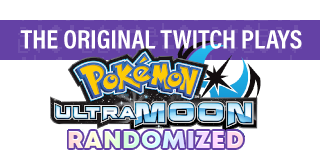
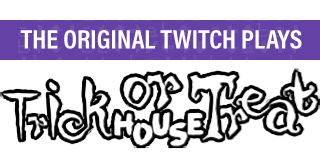
TTH Description

diff --git a/description/active/runs/02 Commands.md b/description/active/runs/02 Commands.md
@@ -2,35 +2,8 @@ For questions about any **!** command, use **!help [command]** to be whispered b
 
 ## Available Commands
 Valid commands for this run are:
-- **Button commands**: **A, B, X, Y, L, R, ZL, ZR**
-- **Directional commands**: **Up, Down, Left, Right, Dup, DDown, DLeft, DRight, CUp, CDown, Cleft, CRight**
-
-## Touchscreen Commands
-Can use **>** for coordinates to drag the touchscreen (**0,0>100,100**). Aliases and coordinates can be held down (**bag-**, **40,160-**), as well as combining them into to a regular command (**move1+a**, **315,50+a**). Touchscreen commands cannot combine with themselves.
-
-- **Move1**: Picks the first move in the Fight menu (Alternate: **315,50**)
-- **Move2**: Picks the second move in the Fight menu (Alternate: **315,100**)
-- **Move3**: Picks the third move in the Fight menu (Alternate: **315,150**)
-- **Move4**: Picks the fourth move in the Fight menu (Alternate: **315,180**)
-
-
-
-- **Bag**: Picks the Bag button in battle. (Alternate: **40,160**)
-- **Run**: Picks Run in battle to run from wild Pokémon (Alternate: **130,200**)
-- **Switch**: Picks Pokémon in battle to switch Pokémon (Alternate: **20,80**)
-
-
-
-- **Poke1**: Picks first Pokémon in Pokémon selection menu (Alternate: **20,30**)
-- **Poke2**: Picks second Pokémon in Pokémon selection menu (Alternate: **20,60**)
-- **Poke3**: Picks third Pokémon in Pokémon selection menu (Alternate: **20,90**)
-- **Poke4**: Picks fourth Pokémon in Pokémon selection menu (Alternate: **20,120**)
-- **Poke5**: Picks fifth Pokémon in Pokémon selection menu (Alternate: **20,150**)
-- **Poke6**: Picks sixth Pokémon in Pokémon selection menu (Alternate: **20,180**)
-
-## Do I have to use the coordinates?
-
-It's not necessary to use coordinates. The coordinates are mostly listed for convenience, you can simply press their respective button to activate the desired command.
+- **Button commands**: **A, B, L, R, Start, Select**
+- **Directional commands**: **Up, Down, Left, Right**
 
 ## Tips
 - Commands are not case sensitive - you can mix it up! For example, **StArT** will have the same effect as **start**.

diff --git a/description/active/runs/01 Header.md b/description/active/runs/01 Header.md
@@ -2,15 +2,12 @@ For questions about any **!** command, use **!help [command]** to be whispered b
 
 The stream clock is in the UTC timezone, you can use [this](https://time.is/UTC) to calculate your delay.
 
-In Twitch Plays Pokémon (TPP), you can submit commands through the chat box and control the current game of **Pokémon Randomized Ultra Moon**!.
+In Twitch Plays Pokémon (TPP), you can submit commands through the chat box and control the current game of **Trick or Treat House**!, a hack based around the Trick House, but with custom made puzzles by the community.
 
 ##### **PLEASE, SAVE OFTEN**
 
 **Credits for this run go to:**
-- FrostedGeulleisia - Run manager, Run testing, Randomization fixes
-- M4_used_rollout - Overlay, Randomization fixes
-- Legtendga - Run Emblem creator
-- red031000 - Obtaining sprites, Custom pk3ds build creator
-- WhatAboutGamingLive - Description, Run logo
+- Tustin2121 - Hack creator
+- The community - Level design
 
 ***Note:** TPP collects and uses some data about your Twitch account so you can play. Find out what data we collect, how we collect it, and what we use it for by reading our privacy statement [here](https://github.com/TwitchPlaysPokemon/tpp-streamdocs/blob/master/privacy/privacy-statement.md).*
